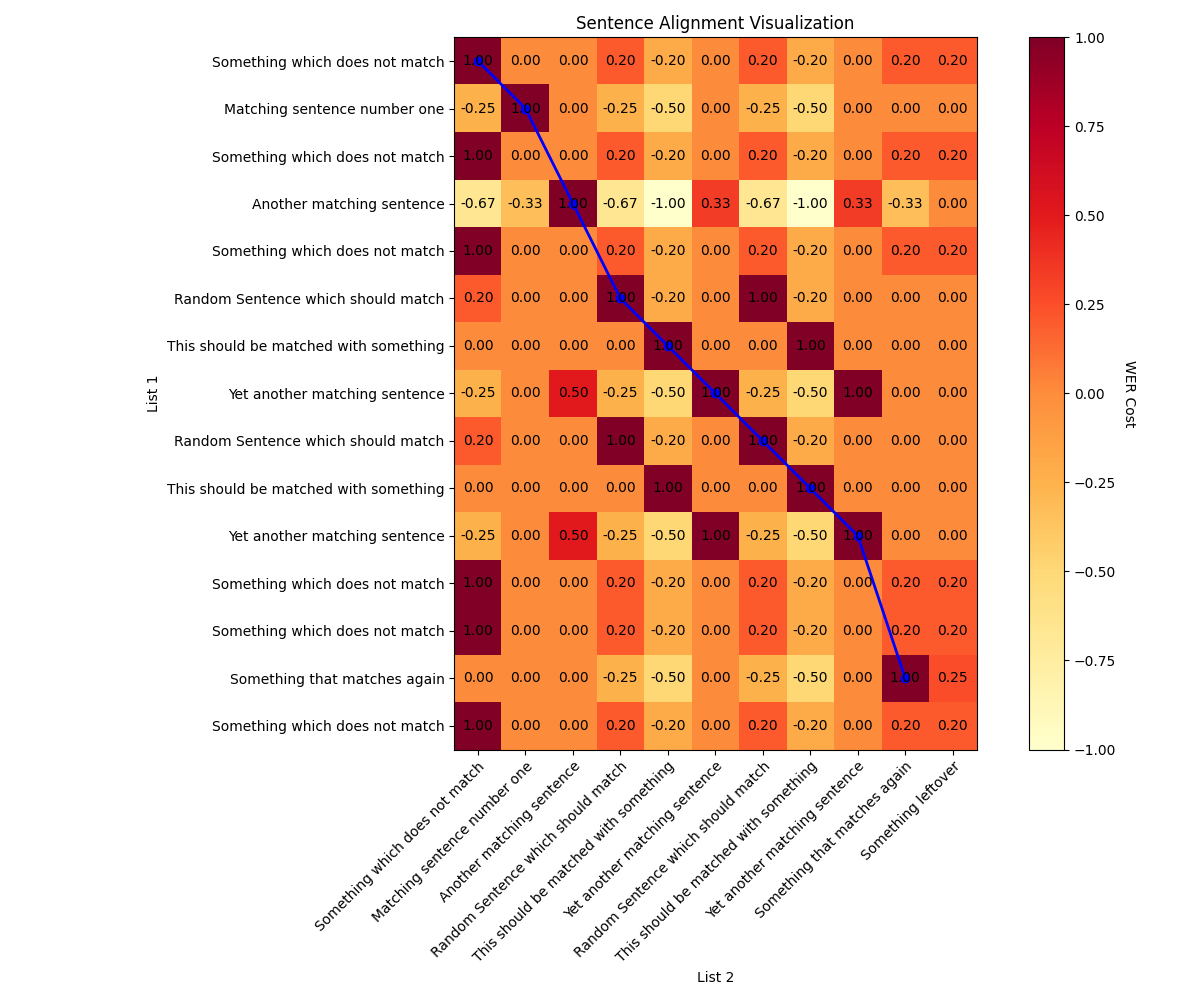
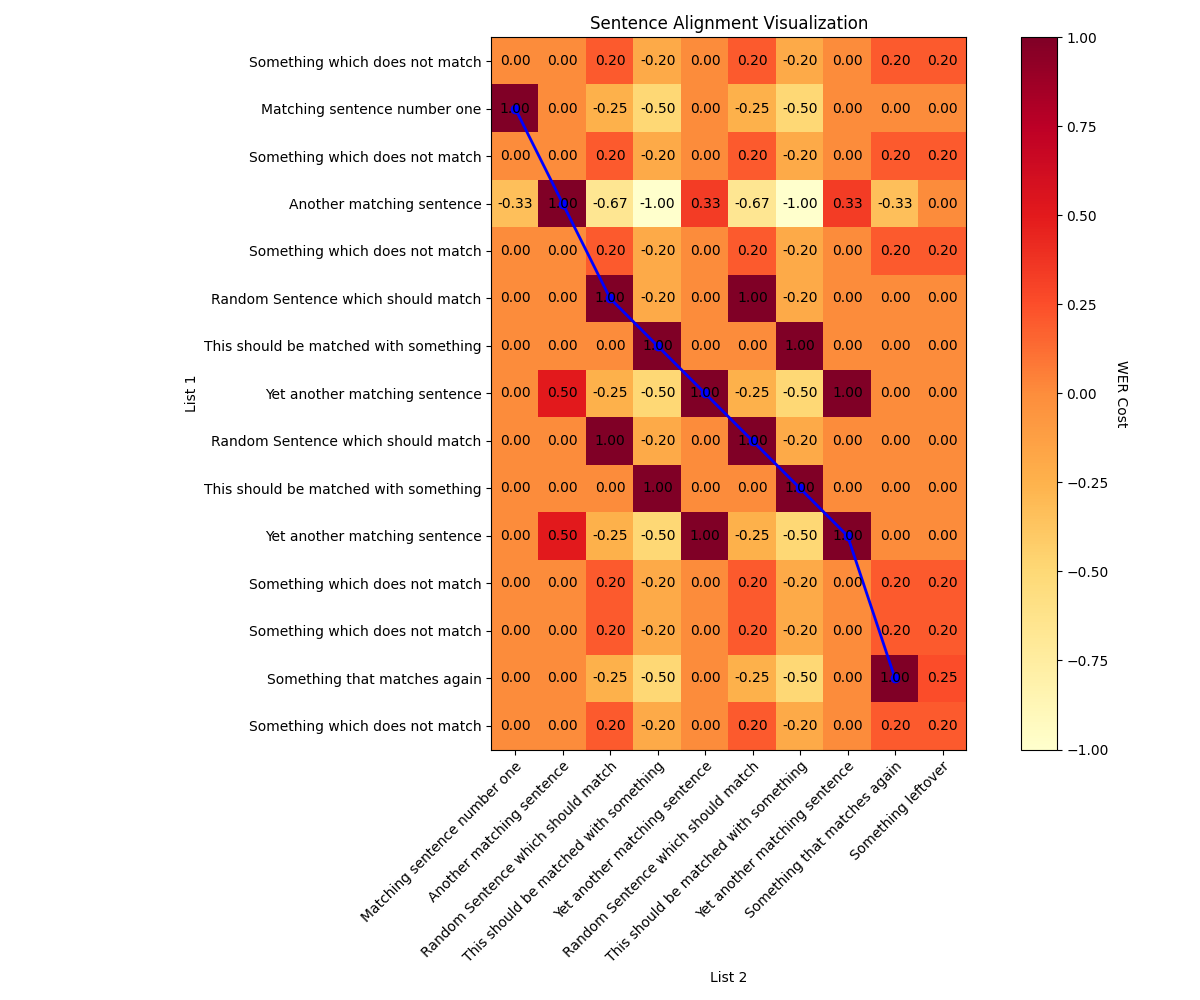
Fixes typo, updates picture, bump version.

Changed region(s): [[0.1542, 0.0, 0.9558, 0.961], [0.8942, 0.744, 0.925, 0.775], [0.5858, 0.961, 0.6167, 0.992]]

diff --git a/README.md b/README.md
@@ -44,7 +44,6 @@ list_1 = [
 ]
 
 list_2 = [
-    "Something which does not match",
     "Matching sentence number one",
     "Another matching sentence",
     "Random Sentence which should match",
@@ -58,9 +57,10 @@ list_2 = [
 ]
 
 # Create a SentenceAligner object with the WER_similarity metric and 0.7 as the minimum matching value
-# The minimum matching value is useful to avoid matching sentences that are not similar enough. Better to not match anything than to match something that is not similar enough.
+# The minimum matching value is useful to avoid matching sentences that are not similar enough.
+# Better to not match anything than to match something that is not similar enough.
 
-alinger = SentenceAligner(WER_similarity, min_matching_value=0.7)
+aligner = SentenceAligner(WER_similarity, min_matching_value=0.7)
 
 # Align the sentences and get the alignment and score
 alignment, score = aligner.align_sentences(list_1, list_2)
